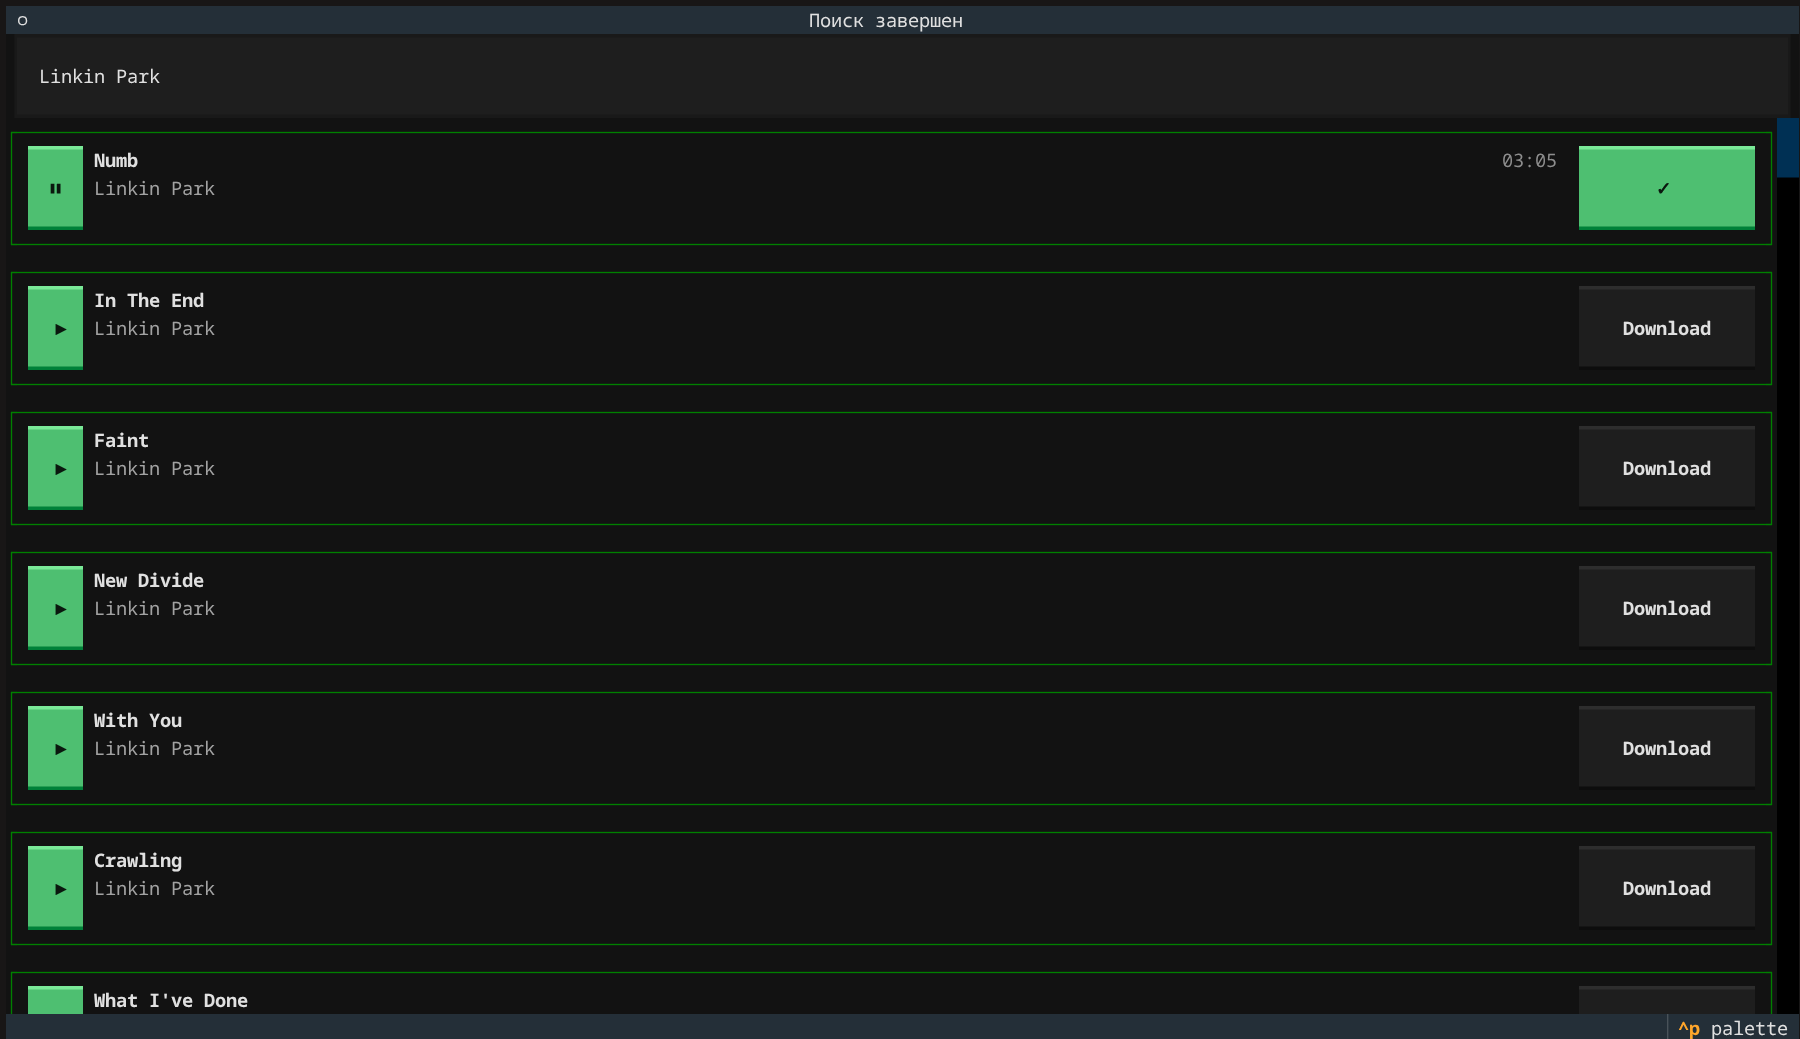
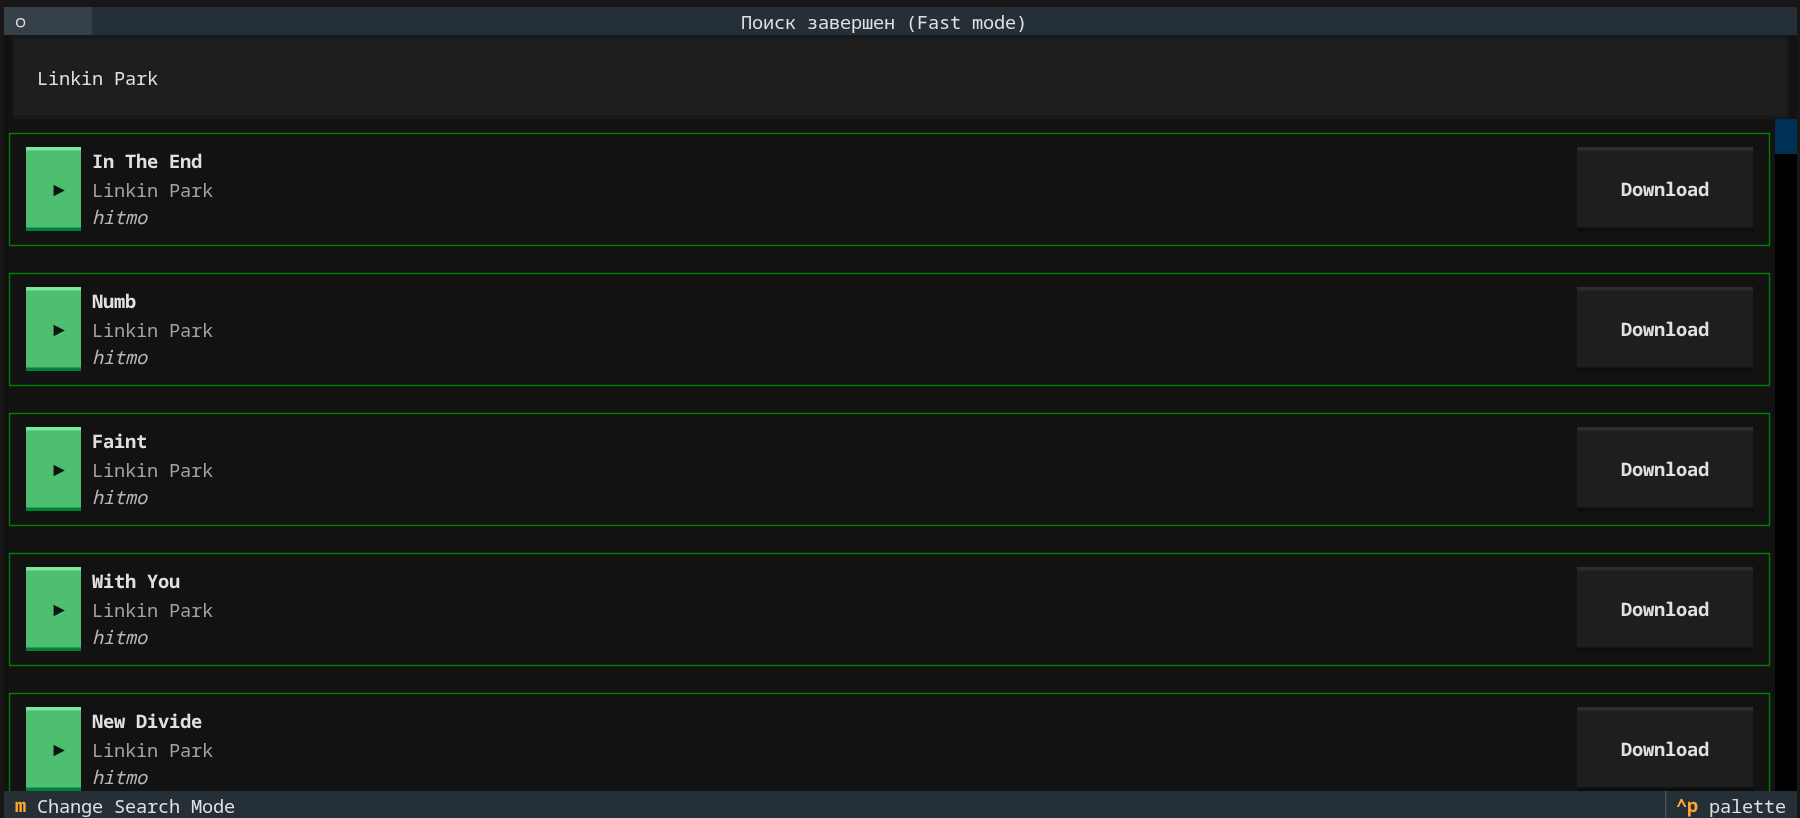
change mode in tui

diff --git a/src/msoc/textual_app.py b/src/msoc/textual_app.py
@@ -1,4 +1,5 @@
 import os
+import re
 import queue
 import string
 import subprocess
@@ -10,14 +11,16 @@ import time
 from functools import cached_property, cache
 from enum import Enum
 import sounddevice as sd  # type: ignore[import-untyped]
-from textual.app import App, ComposeResult
+from textual.app import App, ComposeResult, Binding
 from textual.widgets import Header, Footer, Input, Button, Label
+from textual.reactive import reactive
 from textual.containers import VerticalScroll, VerticalGroup, HorizontalGroup
 
-from msoc import Sound, search
+from msoc import Sound, search, SearchMode
 
 
 logger = logging.getLogger()
+
 
 Channels = int
 SampleRate = float
@@ -130,9 +133,6 @@ class AudioPlayer:
         ffmpeg_cmd = [
             "ffmpeg",
             "-y",  # Перезаписывать sound_filepath без вопросов
-            # "-reconnect", "1",
-            # "-reconnect_streamed", "1",
-            # "-reconnect_delay_max", "2",
             "-i", sound_filepath,
             # для sounddeivce (numpy тип)
             "-f", "f32le", "-acodec", "pcm_f32le", "-ac", str(channels), "-ar", str(samplerate), "pipe:1",
@@ -469,14 +469,32 @@ class MsocApp(App):
     }
     """
 
-    def __init__(self):
+    suffix_title_pattern = re.compile(r' \([a-zA-Z]* mode\)$')
+
+    BINDINGS = [
+        Binding('m', 'toggle_search_mode', "Change Search Mode")
+    ]
+
+    def __init__(self, search_mode: SearchMode = SearchMode.Fast):
         super().__init__()
         self.player = AudioPlayer(self)
+        self.search_mode = search_mode
+        self.update_title()
+
+    def update_title(self, title: str | None = None):
+        if not title:
+            title = self.suffix_title_pattern.sub('', self.title)
+
+        self.title = title + f' ({self.search_mode.value.title()} mode)'
+
+    def action_toggle_search_mode(self):
+        self.search_mode = SearchMode.Fast if self.search_mode == SearchMode.Full else SearchMode.Full
+        self.update_title()
 
     def on_input_submitted(self, event: Input.Submitted):
         if event.control.id != "search":
             return
-        self.title = "Идет поиск..."
+        self.update_title("Идет поиск...")
         event.control.disabled = True
         self.run_worker(self.search_task(event.value), name="search")
 
@@ -484,11 +502,11 @@ class MsocApp(App):
         list_sounds_container = self.query_one("#list-sounds")
         list_sounds_container.remove_children()
 
-        async for sound in search(query):
+        async for sound in search(query, mode=self.search_mode):
             sound_widget = SoundWidget(sound, self.player)
             await list_sounds_container.mount(sound_widget)
 
-        self.title = "Поиск завершен"
+        self.update_title("Поиск завершен")
         self.query_one("#search").disabled = False
 
     def compose(self) -> ComposeResult:

diff --git a/src/msoc/core.py b/src/msoc/core.py
@@ -10,7 +10,7 @@ from .exceptions import LoadedEngineNotFoundError
 from .sound import Sound
 
 __all__ = [
-    "Mode",
+    "SearchMode",
     "search",
     "get_engines",
     "register_engine",
@@ -20,7 +20,7 @@ __all__ = [
 ]
 
 
-class Mode(Enum):
+class SearchMode(Enum):
     Fast = "fast"
     Full = "full"
 
@@ -86,7 +86,7 @@ def unload_search_engine(name: str) -> None:
     logger.info("Удалён движок: %s", name)
 
 
-async def search(query: str, mode: Mode = Mode.Fast) -> AsyncGenerator[Sound, None]:
+async def search(query: str, mode: SearchMode = SearchMode.Fast) -> AsyncGenerator[Sound, None]:
     """
     Запускает параллельный поиск музыки по всем зарегистрированным движкам.
 
@@ -95,17 +95,19 @@ async def search(query: str, mode: Mode = Mode.Fast) -> AsyncGenerator[Sound, No
 
     Args:
         query: Поисковый запрос (название трека, исполнитель или и то и другое).
-        mode: Режим поиска — ``Fast`` (только первые страницы) или ``Full``
-            (все страницы через ``search_full``, если он реализован).
+
+        mode: Режим поиска — Fast (только первые страницы) или Full
+            (все страницы через search_full, если он реализован).
 
     Yields:
         Sound — унифицированная информация о найденном треке.
-        Поле ``_engine`` автоматически заполняется именем движка-источника.
+
+        Поле _engine автоматически заполняется именем движка-источника.
 
     Note:
         Если ни один движок не зарегистрирован, генератор немедленно завершится.
-        Ошибки отдельных движков логируются на уровне CRITICAL и не прерывают
-        поиск остальными движками.
+        
+        Ошибки отдельных движков логируются и не прерывают поиск остальными движками.
     """
     engines = get_engines()
     queue: asyncio.Queue[Sound | None] = asyncio.Queue()
@@ -156,7 +158,7 @@ async def search(query: str, mode: Mode = Mode.Fast) -> AsyncGenerator[Sound, No
             )
             continue
 
-        if mode is Mode.Full:
+        if mode is SearchMode.Full:
             search_full = getattr(engine_module, "search_full", None)
             if search_full is not None:
                 callback = search_full

diff --git a/src/msoc/utils.py b/src/msoc/utils.py
@@ -3,6 +3,8 @@ import re
 
 logger = logging.getLogger("msoc")
 
+http_pattern = re.compile(r'^https?://')
+
 
 def validate_and_return_absolute_url(sound_url: str, base_url: str) -> str:
     """
@@ -10,7 +12,7 @@ def validate_and_return_absolute_url(sound_url: str, base_url: str) -> str:
 
     Args:
         sound_url: Относительный или абсолютный URL трека.
-        
+
         base_url: Базовый URL сайта для преобразования относительных ссылок.
 
     Returns:
@@ -20,11 +22,10 @@ def validate_and_return_absolute_url(sound_url: str, base_url: str) -> str:
         ValueError: Если base_url не является корректным абсолютным URL.
     """
 
-    pattern = re.compile(r'^https?://')
-    if pattern.search(sound_url):
+    if http_pattern.search(sound_url):
         return sound_url
     
-    if not pattern.search(base_url):
+    if not http_pattern.search(base_url):
         raise ValueError('Базовый url должен быть абсолютным')
     
     url_fragments = base_url.split('/') 

diff --git a/src/msoc/__main__.py b/src/msoc/__main__.py
@@ -1,10 +1,10 @@
 import argparse
 import asyncio
 
-from .core import Mode, search
+from .core import SearchMode, search
 
 
-async def main(query: str, mode: Mode) -> None:
+async def main(query: str, mode: SearchMode) -> None:
     async for sound in search(query, mode=mode):
         print(
             f"Name: {sound.title}\n"
@@ -34,15 +34,15 @@ def execute() -> None:
         help="Режим поиска: fast (только первые страницы) или full (все страницы)",
     )
     args = parser.parse_args()
+    mode = SearchMode(args.mode)
 
     if args.tui:
         from .textual_app import MsocApp
 
-        app = MsocApp()
+        app = MsocApp(search_mode=mode)
         app.run()
         return
 
-    mode = Mode(args.mode)
     query = args.query if args.query else input("Запрос: ")
     asyncio.run(main(query, mode))
 
